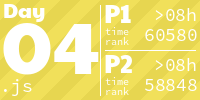
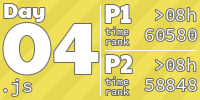
Update AoC tiles script to add text borders

diff --git a/AoCTiles/create_aoc_tiles.py b/AoCTiles/create_aoc_tiles.py
@@ -102,6 +102,12 @@ def get_solution_paths_dict_for_years() -> dict[int, dict[int, list[str]]]:
 
 # Color if a part is not completed
 NOT_COMPLETED_COLOR = ImageColor.getrgb("#333333")
+TEXT_BACKDROP = ImageColor.getrgb("#6C6A6A")
+# Add Backdrop if too bright
+THRESHOLD = 45
+TEXT_WHITE = ImageColor.getrgb("#FFFFFF")
+TEXT_STROKE_WEIGHT = 0
+
 
 # Width of each tile in the README.md.
 # 161px is a rather specific number, with it exactly 5 tiles fit into a row. It is possible to go
@@ -245,13 +251,17 @@ class HTML:
 def darker_color(c: tuple[int, int, int, int]) -> tuple[int, int, int, int]:
     return c[0] - 10, c[1] - 10, c[2] - 10, 255
 
+def luminance(color):
+    return (0.299 * color[0] + 0.587 * color[1] + 0.114 * color[2])
+
+def is_similar(color_a, color_b, threshold):
+    return abs(luminance(color_a) - luminance(color_b)) < threshold
 
 def get_alternating_background(languages, both_parts_completed=True, *, stripe_width=20):
     colors = [ImageColor.getrgb(extension_to_color[language]) for language in languages]
     if len(colors) == 1:
         colors.append(darker_color(colors[0]))
     image = Image.new("RGB", (200, 100), NOT_COMPLETED_COLOR)
-
     def fill_with_colors(colors, fill_only_half):
         for x in range(image.width):
             for y in range(image.height):
@@ -291,29 +301,35 @@ def generate_day_tile_image(day: str, year: str, languages: list[str], day_score
     image = get_alternating_background(languages, not (day_scores is None or day_scores.time2 is None))
     drawer = ImageDraw(image)
     font_color = "white"
-
+    
+    tempcolors = [ImageColor.getrgb(extension_to_color[language]) for language in languages]
+    TEXT_STROKE_WEIGHT = 0
+    for color in tempcolors:
+        if(is_similar(color,TEXT_WHITE, THRESHOLD)):
+            TEXT_STROKE_WEIGHT = 1
+    
     # === Left side ===
-    drawer.text((3, -5), "Day", fill=font_color, align="left", font=main_font(20))
-    drawer.text((1, -10), str(day), fill=font_color, align="center", font=main_font(75))
+    drawer.text((3, -5), "Day", fill=font_color, align="left", font=main_font(20),stroke_width=TEXT_STROKE_WEIGHT, stroke_fill=TEXT_BACKDROP)
+    drawer.text((1, -10), str(day), fill=font_color, align="center", font=main_font(75),stroke_width=TEXT_STROKE_WEIGHT, stroke_fill=TEXT_BACKDROP)
     # Calculate font size based on number of characters, because it might overflow
     lang_as_str = " ".join(languages)
     lang_font_size = max(6, int(18 - max(0, len(lang_as_str) - 8) * 1.3))
-    drawer.text((0, 74), lang_as_str, fill=font_color, align="left", font=secondary_font(lang_font_size))
+    drawer.text((0, 74), lang_as_str, fill=font_color, align="left", font=secondary_font(lang_font_size),stroke_width=TEXT_STROKE_WEIGHT, stroke_fill=TEXT_BACKDROP)
 
     # === Right side (P1 & P2) ===
     for part in (1, 2):
         y = 50 if part == 2 else 0
         time, rank = getattr(day_scores, f"time{part}", None), getattr(day_scores, f"rank{part}", None)
         if day_scores is not None and time is not None:
-            drawer.text((104, -5 + y), f"P{part} ", fill=font_color, align="left", font=main_font(25))
+            drawer.text((104, -5 + y), f"P{part} ", fill=font_color, align="left", font=main_font(25),stroke_width=TEXT_STROKE_WEIGHT, stroke_fill=TEXT_BACKDROP)
             if SHOW_CHECKMARK_INSTEAD_OF_TIME_RANK:
                 drawer.line((160, 35 + y, 150, 25 + y), fill=font_color, width=2)
                 drawer.line((160, 35 + y, 180, 15 + y), fill=font_color, width=2)
                 continue
-            drawer.text((105, 25 + y), "time", fill=font_color, align="right", font=secondary_font(10))
-            drawer.text((105, 35 + y), "rank", fill=font_color, align="right", font=secondary_font(10))
-            drawer.text((143, 3 + y), format_time(time), fill=font_color, align="right", font=secondary_font(18))
-            drawer.text((133, 23 + y), f"{rank:>6}", fill=font_color, align="right", font=secondary_font(18))
+            drawer.text((105, 25 + y), "time", fill=font_color, align="right", font=secondary_font(10),stroke_width=TEXT_STROKE_WEIGHT, stroke_fill=TEXT_BACKDROP)
+            drawer.text((105, 35 + y), "rank", fill=font_color, align="right", font=secondary_font(10),stroke_width=TEXT_STROKE_WEIGHT, stroke_fill=TEXT_BACKDROP)
+            drawer.text((143, 3 + y), format_time(time), fill=font_color, align="right", font=secondary_font(18),stroke_width=TEXT_STROKE_WEIGHT, stroke_fill=TEXT_BACKDROP)
+            drawer.text((133, 23 + y), f"{rank:>6}", fill=font_color, align="right", font=secondary_font(18),stroke_width=TEXT_STROKE_WEIGHT, stroke_fill=TEXT_BACKDROP)
         else:
             drawer.line((140, 15 + y, 160, 35 + y), fill=font_color, width=2)
             drawer.line((140, 35 + y, 160, 15 + y), fill=font_color, width=2)
